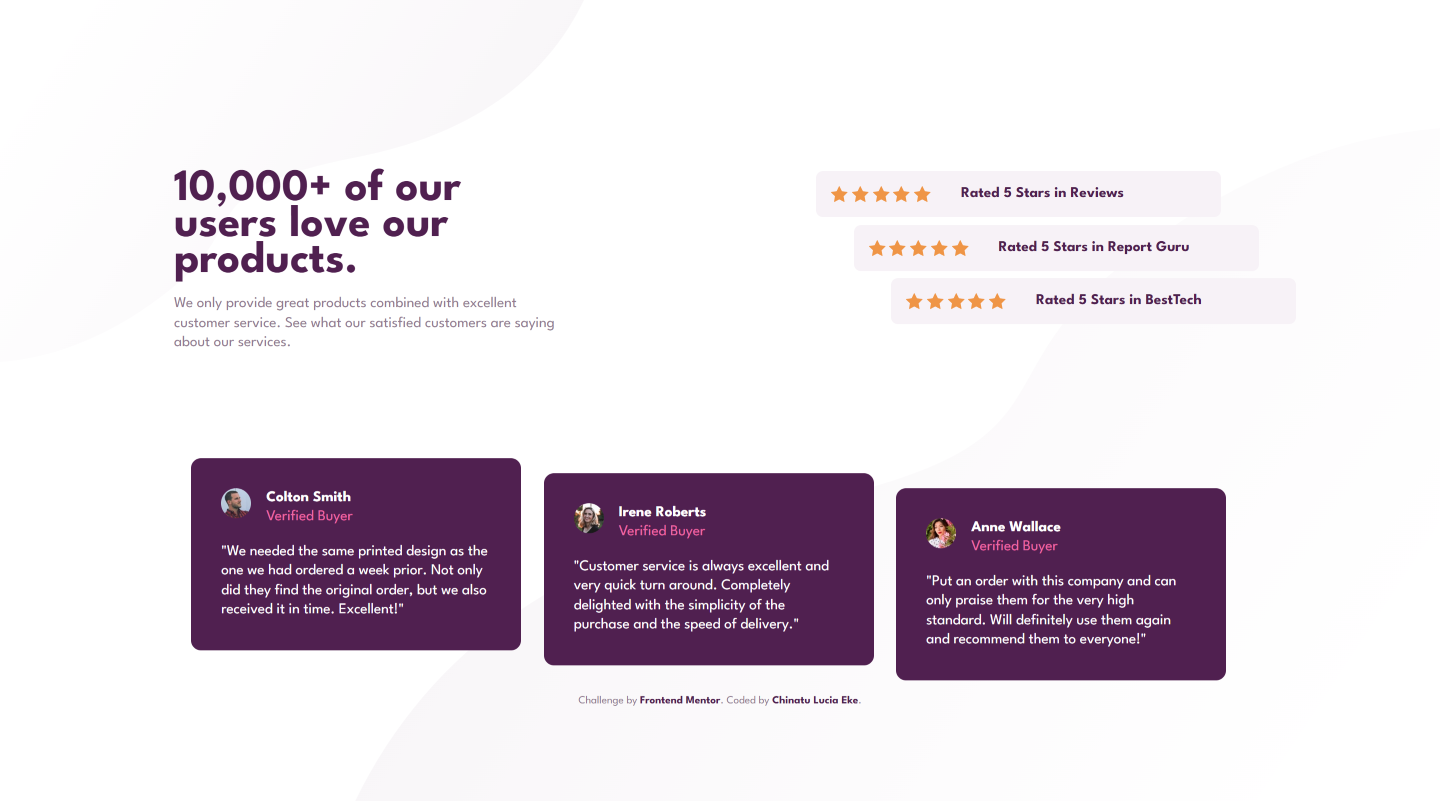
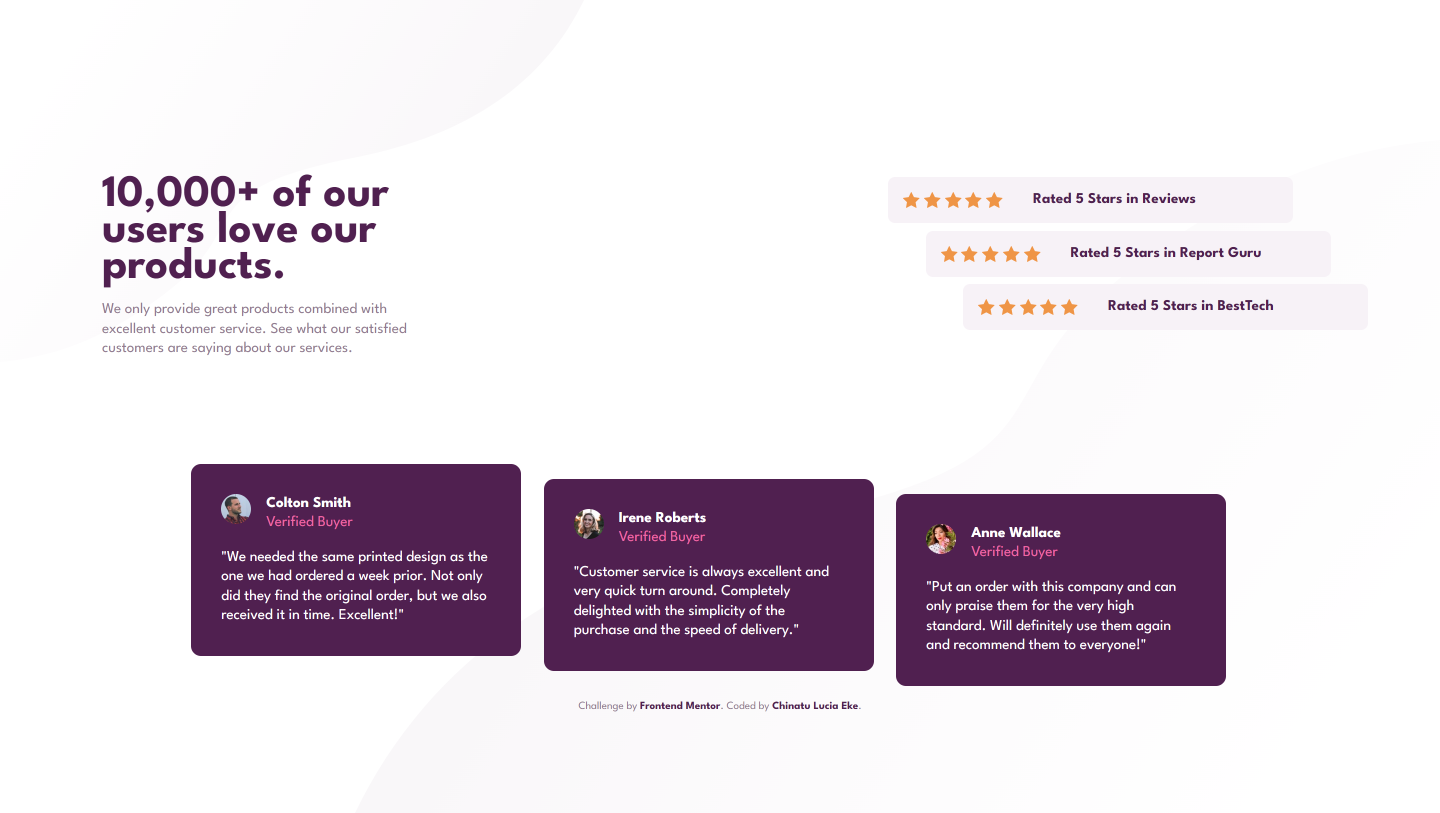
change desktop screenshot and modify css file

diff --git a/styles.css b/styles.css
@@ -143,7 +143,7 @@ main {
     }
 
     .review-header {
-        width: 40%;
+        width: 30%;
         text-align: left;
     }
     .review-header > h1 {
